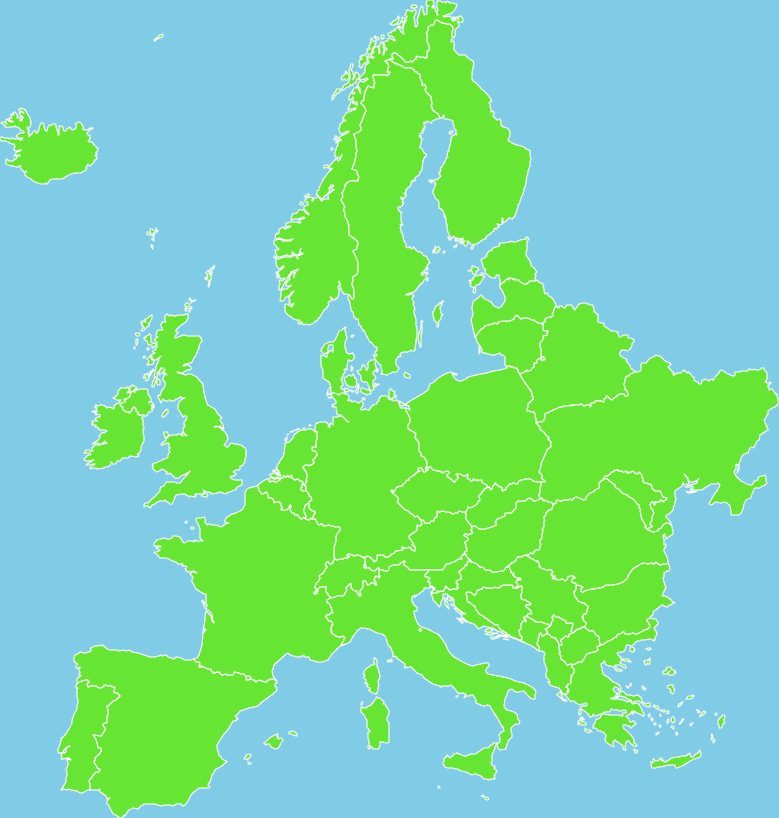
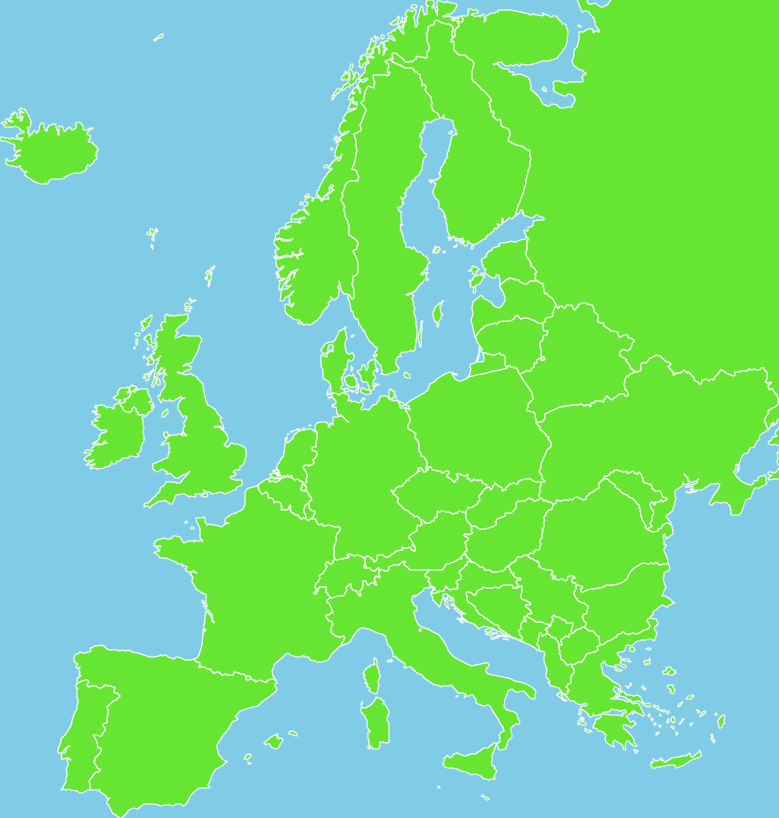
Fix handling of outside regions in example.

Changed region(s): [[0.5546, 0.0, 1.0, 0.6112], [0.5854, 0.4279, 0.647, 0.4584]]

diff --git a/README.rst b/README.rst
@@ -69,19 +69,19 @@ Download it and unzip its contents to a folder named ``data``.
     for sr in tqdm.tqdm(sf.shapeRecords()):
         if sr.record[54] != "Europe":
             continue
-        # Russia is too big for a sample map :)
-        if sr.record[4] == "RUS":
-            continue
         points = sr.shape.points
         offsets = list(sr.shape.parts) + [len(points)]
         for a, b in zip(offsets[:-1], offsets[1:]):
-            # Remove some lands outside the region of interest.
+            # Prevent some lands from interfering on the region of interest.
             lon, lat = points[a]
-            if not -25 < lon < 41 or not 35 < lat < 72:
-                continue
+            outside = not -25 < lon < 41 or not 35 < lat < 72
+            if outside:
+                bb = cvs.bbox
             polygon = (prj.geo2rect(lon, lat) for lon, lat in points[a:b])
             polygon = coord.simplify(polygon, pixsz)
             cvs.addpolygon(polygon, fill=land, stroke=border)
+            if outside:
+                cvs.bbox = bb
     # Create a nice PNG file.
     # This requires both Ghostscript and ImageMagick.
     # Specifically, the commands `gs` and `convert` must be on the $PATH.
